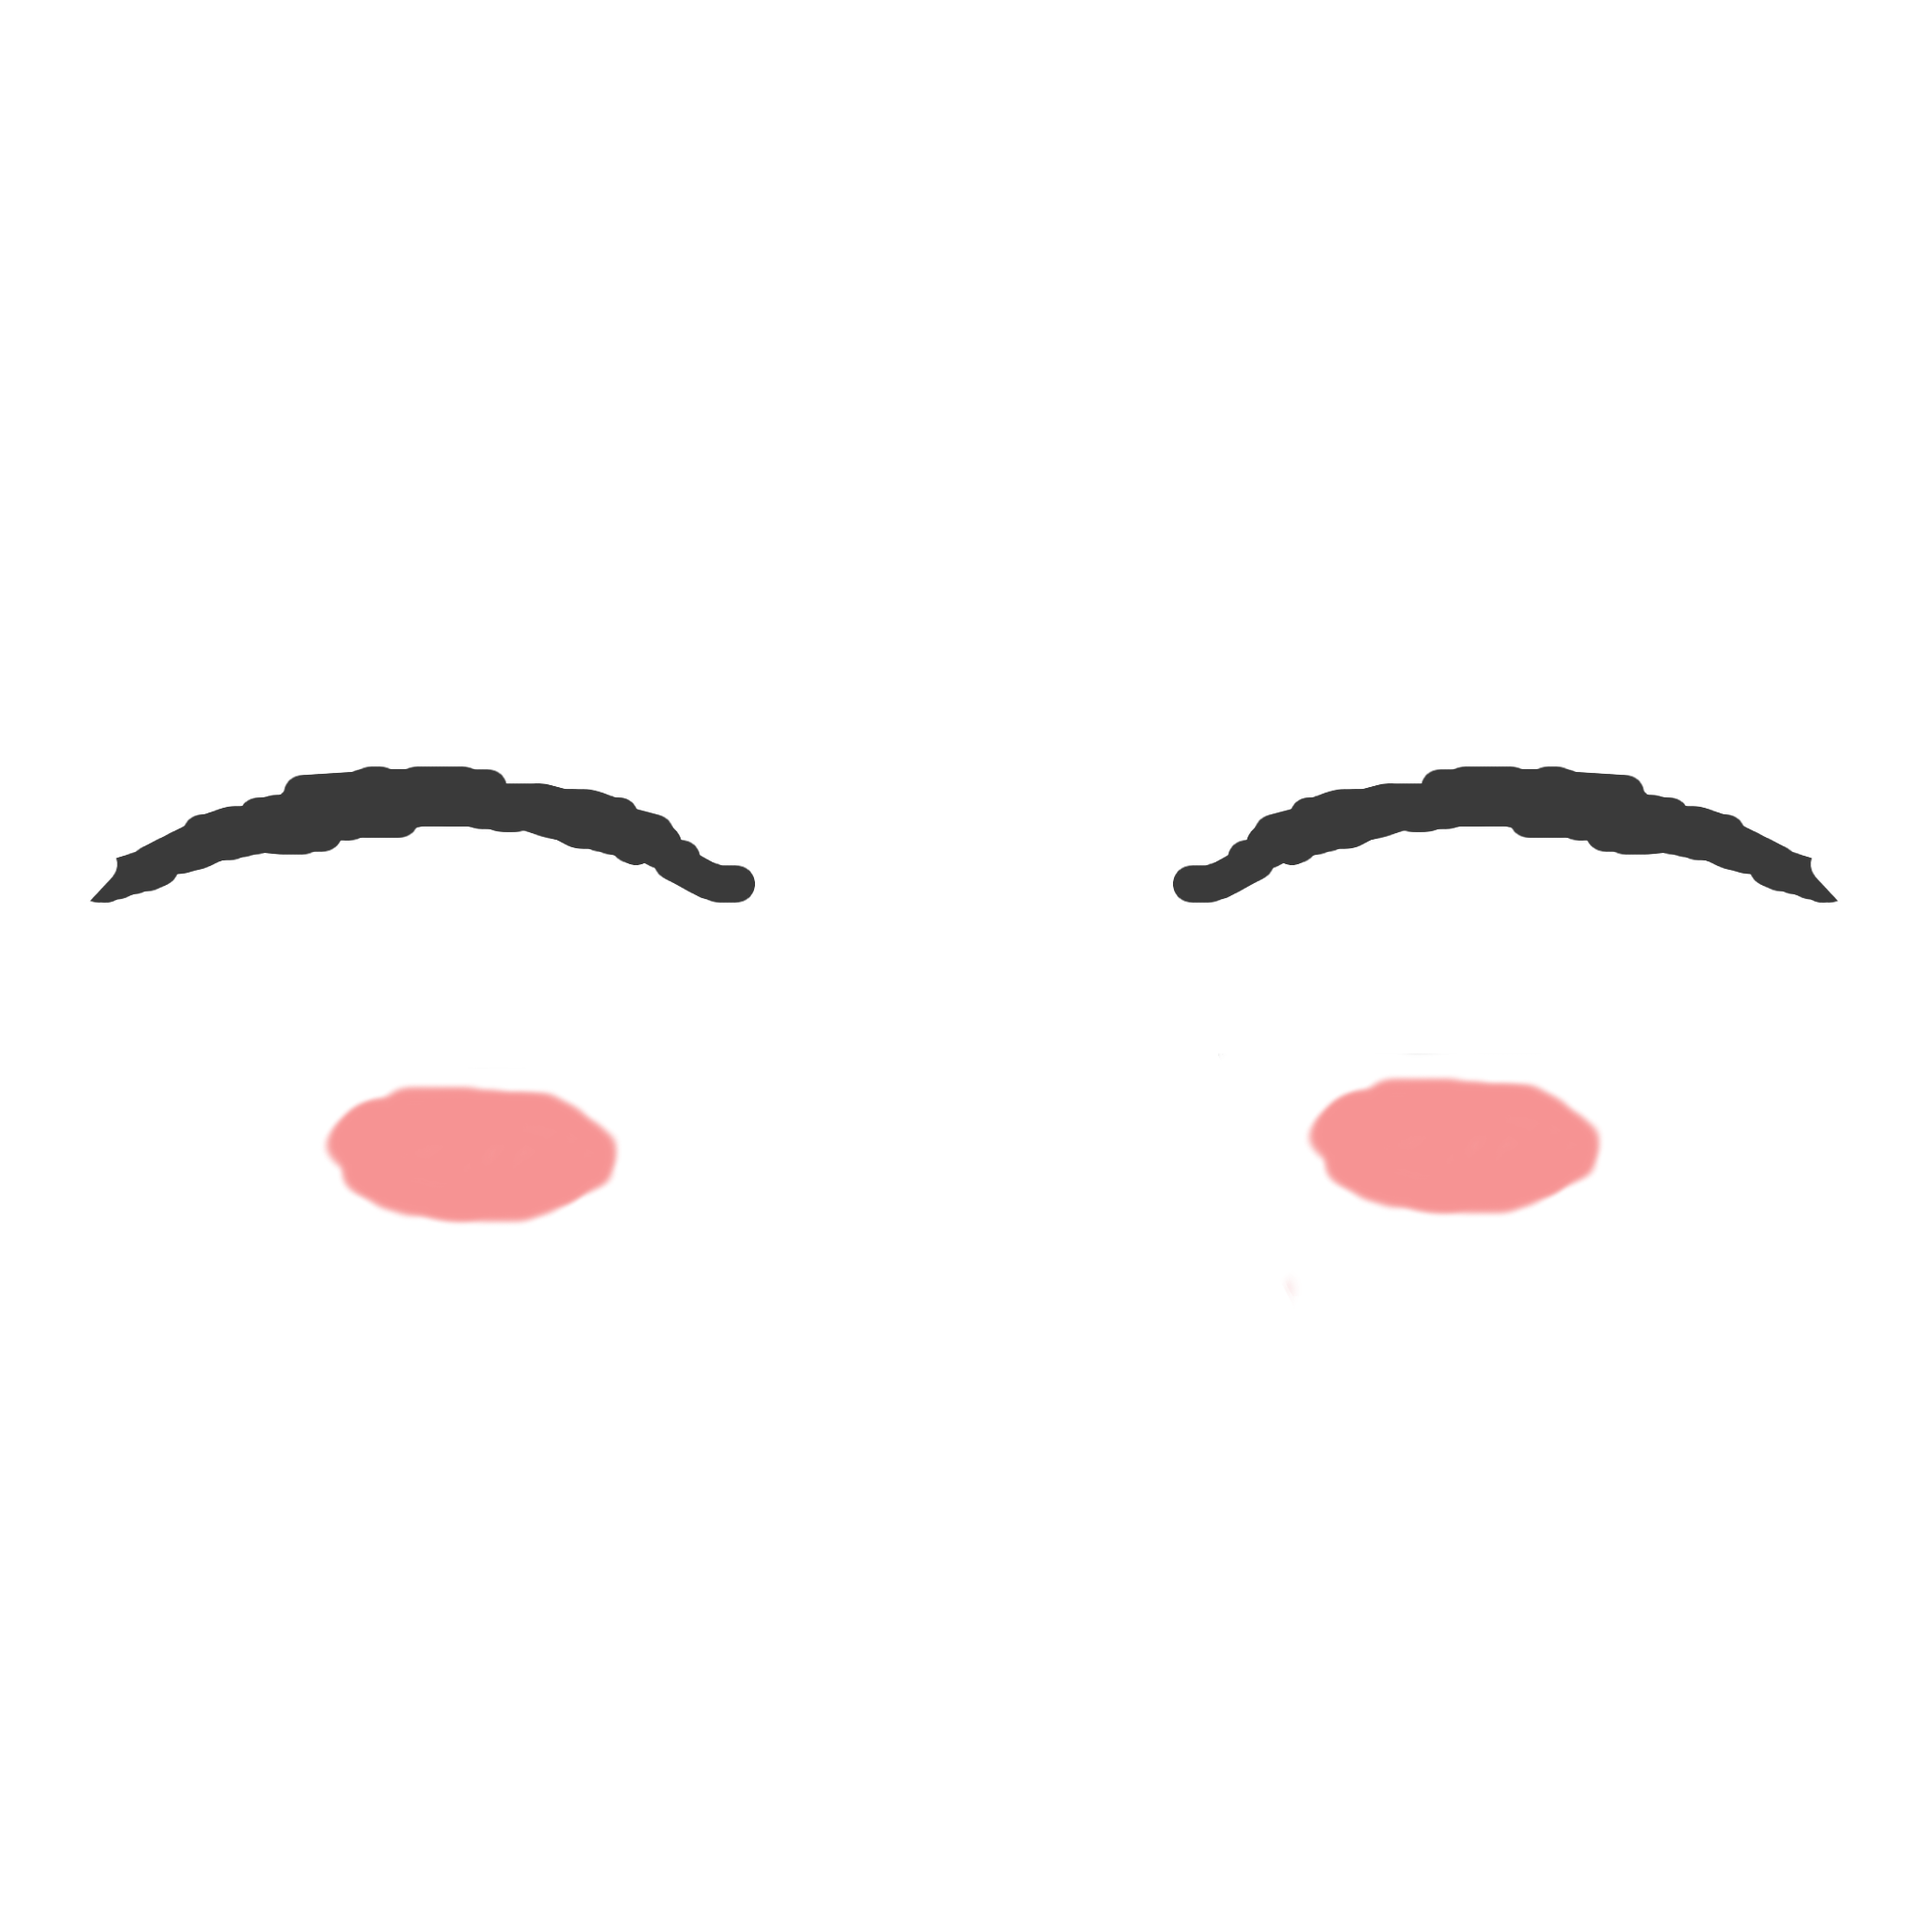
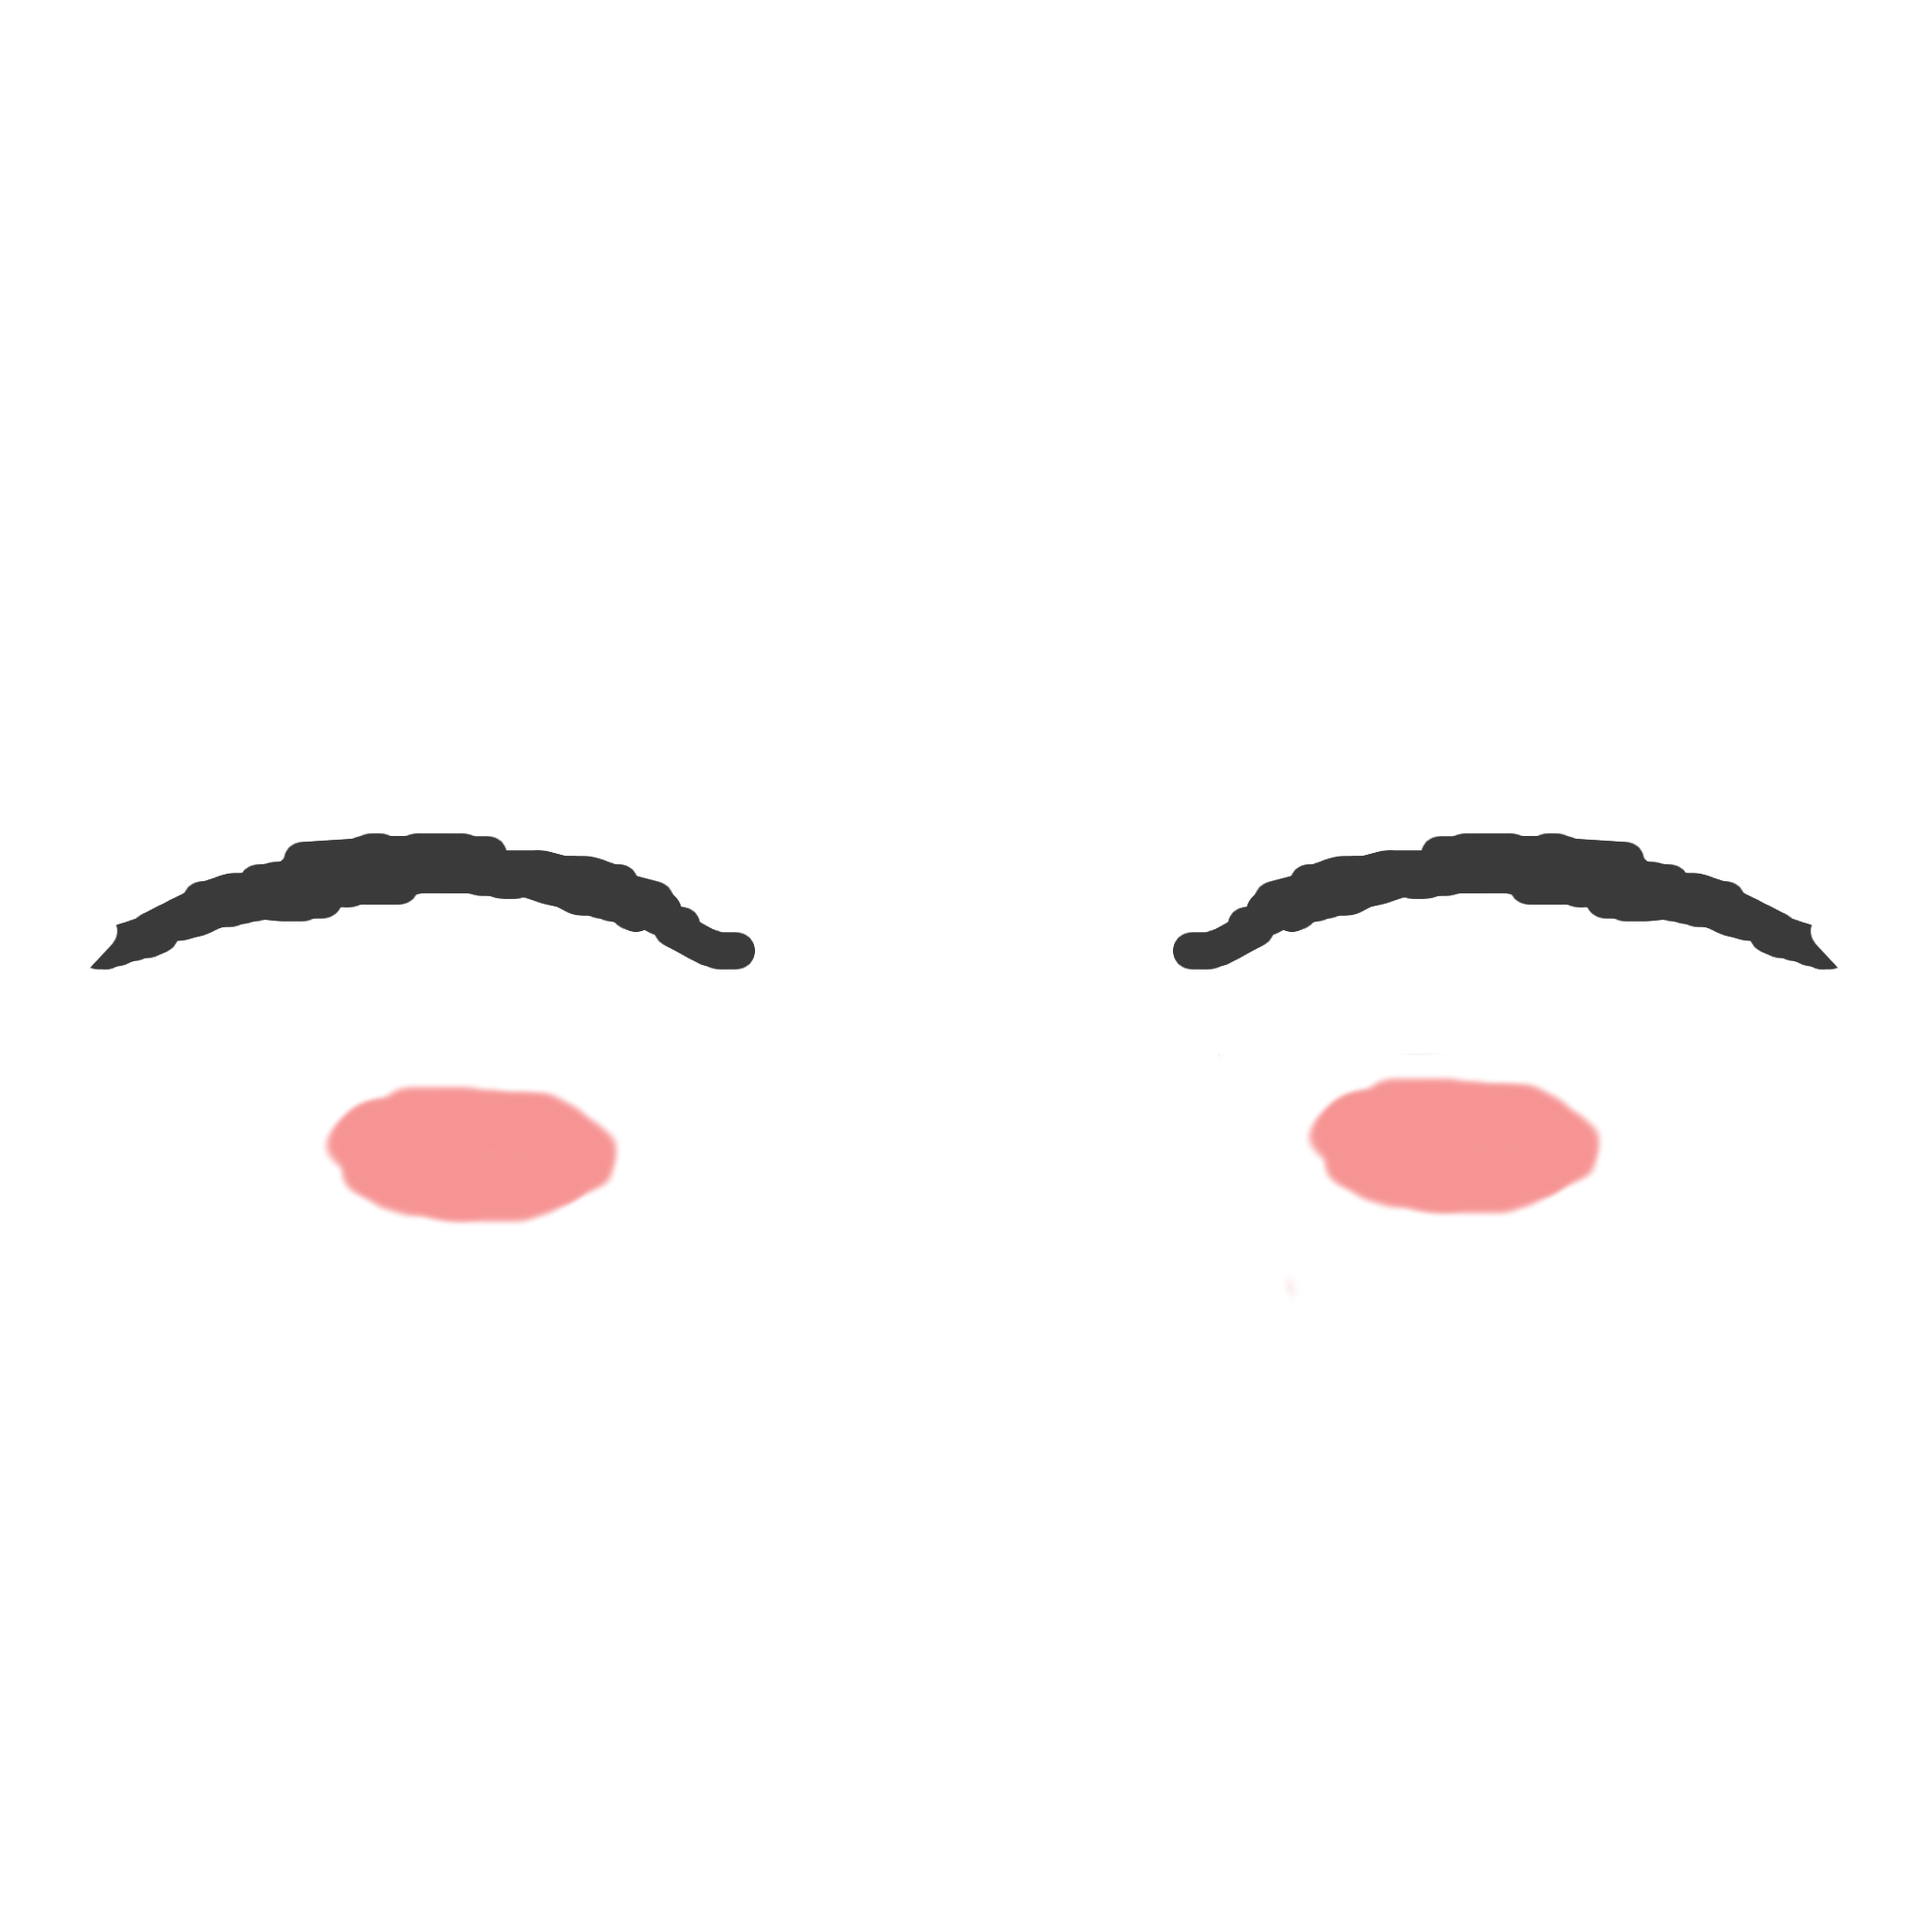
Added blinking and eyes closing on certain animations

Changed region(s): [[0.5938, 0.375, 0.9688, 0.5], [0.0312, 0.375, 0.4062, 0.5]]

diff --git a/StrawberrySupernova/Assets/scripts/Game/CharacterFace.cs b/StrawberrySupernova/Assets/scripts/Game/CharacterFace.cs
@@ -1,4 +1,5 @@
 using System;
+using System.Collections;
 using System.Collections.Generic;
 using StompyBlondie;
 using UnityEngine;
@@ -18,6 +19,8 @@ namespace StrawberryNova
         private Character.Appearence appearence;
         private bool suppliedAppearence;
         private FaceState currentState = FaceState.NORMAL;
+        private float blinkWait;
+        private float blinkTime;
 
         private void Awake()
         {
@@ -34,12 +37,39 @@ namespace StrawberryNova
         {
             faceMaterial = GetComponentInChildren<SkinnedMeshRenderer>().material;
             SetFaceState(FaceState.NORMAL);
+            StartCoroutine(DoExpressions());
         }
 
         private void Update()
         {
             if(!renderTextures[FaceState.NORMAL].IsCreated())
+            {
                 Recreate();
+                return;
+            }
+        }
+
+        private IEnumerator DoExpressions()
+        {
+            while(true)
+            {
+                if(currentState == FaceState.EYES_CLOSED)
+                {
+                    SetRenderTexture(renderTextures[FaceState.EYES_CLOSED]);
+                }
+                else if(currentState == FaceState.NORMAL)
+                {
+                    SetRenderTexture(renderTextures[FaceState.NORMAL]);
+                    var betweenBlinkTime = UnityEngine.Random.Range(Consts.CHARACTER_BETWEEN_BLINK_WAIT_RANGE[0],
+                        Consts.CHARACTER_BETWEEN_BLINK_WAIT_RANGE[1]);
+                    yield return new WaitForSeconds(betweenBlinkTime);
+                    SetRenderTexture(renderTextures[FaceState.EYES_CLOSED]);
+                    var blinkTime = UnityEngine.Random.Range(Consts.CHARACTER_BLINK_TIME_RANGE[0],
+                        Consts.CHARACTER_BLINK_TIME_RANGE[1]);
+                    yield return new WaitForSeconds(blinkTime);
+                }
+                yield return new WaitForFixedUpdate();
+            }
         }
 
         private void OnDestroy()
@@ -66,6 +96,12 @@ namespace StrawberryNova
         {
             currentState = state;
             faceMaterial.mainTexture = renderTextures[state];
+        }
+
+        private void SetRenderTexture(RenderTexture setTo)
+        {
+            if(setTo.IsCreated() && faceMaterial.mainTexture != setTo)
+                faceMaterial.mainTexture = setTo;
         }
 
         private void GenerateFaceTexture(RenderTexture texture, FaceState state)

diff --git a/StrawberrySupernova/Assets/scripts/Global/Core/Consts.cs b/StrawberrySupernova/Assets/scripts/Global/Core/Consts.cs
@@ -15,7 +15,7 @@ namespace StrawberryNova
         // -----------------------------
 
         // Where to boot the app into
-        public const AppState INITIAL_APP_STATE = AppState.Game;
+        public const AppState INITIAL_APP_STATE = AppState.CreateACharacter;
 
         // -----------------------------
         // TILE DRAWING
@@ -27,7 +27,9 @@ namespace StrawberryNova
         public const int COLLISION_LAYER_MOUSE_HOVER_PLANE = 10;
         public const int COLLISION_LAYER_PLAYER = 12;
         public const int COLLISION_LAYER_ITEMS = 13;
+
         public const int COLLISION_LAYER_CHARACTERS = 14;
+
         // Tiles are this size on all dimensions
         public const float TILE_SIZE = 0.5f;
 
@@ -72,7 +74,7 @@ namespace StrawberryNova
         // CHARACTERS
         // -----------------------------
 
-        public const float CHARACTER_MOVE_ACCELERATION= 80f;
+        public const float CHARACTER_MOVE_ACCELERATION = 80f;
 
         public const float CHARACTER_MAX_WALK_SPEED = .8f;
 
@@ -81,6 +83,10 @@ namespace StrawberryNova
         public const float CHARACTER_ROTATION_SPEED = 10f;
 
         public const float CHARACTER_JUMP_FORCE = 800f;
+
+        public static readonly float[] CHARACTER_BETWEEN_BLINK_WAIT_RANGE = { 2f, 3f };
+
+        public static readonly float[] CHARACTER_BLINK_TIME_RANGE = { .05f, .1f };
 
         // -----------------------------
         // PLAYER

diff --git a/StrawberrySupernova/Assets/scripts/Game/Character.cs b/StrawberrySupernova/Assets/scripts/Game/Character.cs
@@ -731,9 +731,16 @@ namespace StrawberryNova
             itemCurrentlyHolding = null;
         }
 
+        // Animation event: Close eyes
+        protected void AnimatorCloseEyes()
+        {
+            face.SetFaceState(CharacterFace.FaceState.EYES_CLOSED);
+        }
+
         // Animation event: YawnDone
         protected void AnimatorYawnDone()
         {
+            face.SetFaceState(CharacterFace.FaceState.NORMAL);
             mainAnimator.SetBool("DoYawn", false);
             currentAction = 0;
         }

diff --git a/StrawberrySupernova/Assets/scripts/Game/Player.cs b/StrawberrySupernova/Assets/scripts/Game/Player.cs
@@ -122,6 +122,7 @@ namespace StrawberryNova
             SetPassOutEvent();
             controller.worldTimer.DoTimerEvents();
             mainAnimator.SetBool("DoPassOut", false);
+            face.SetFaceState(CharacterFace.FaceState.NORMAL);
 
             // Wait a bit and fade back in
             yield return new WaitForSeconds(2f);
